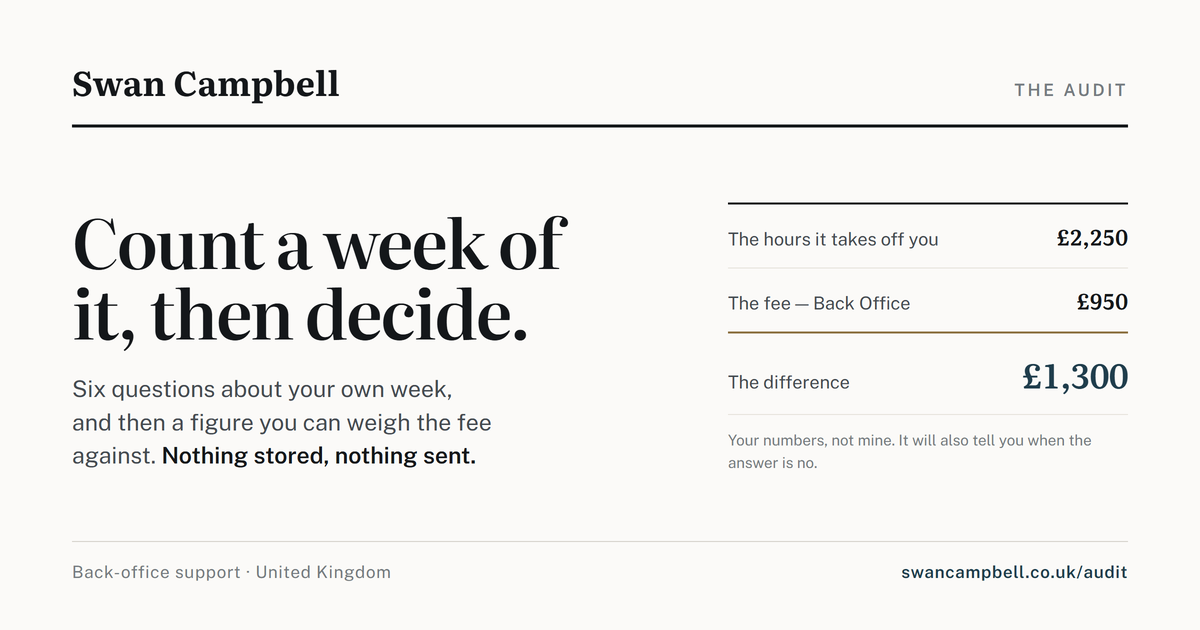
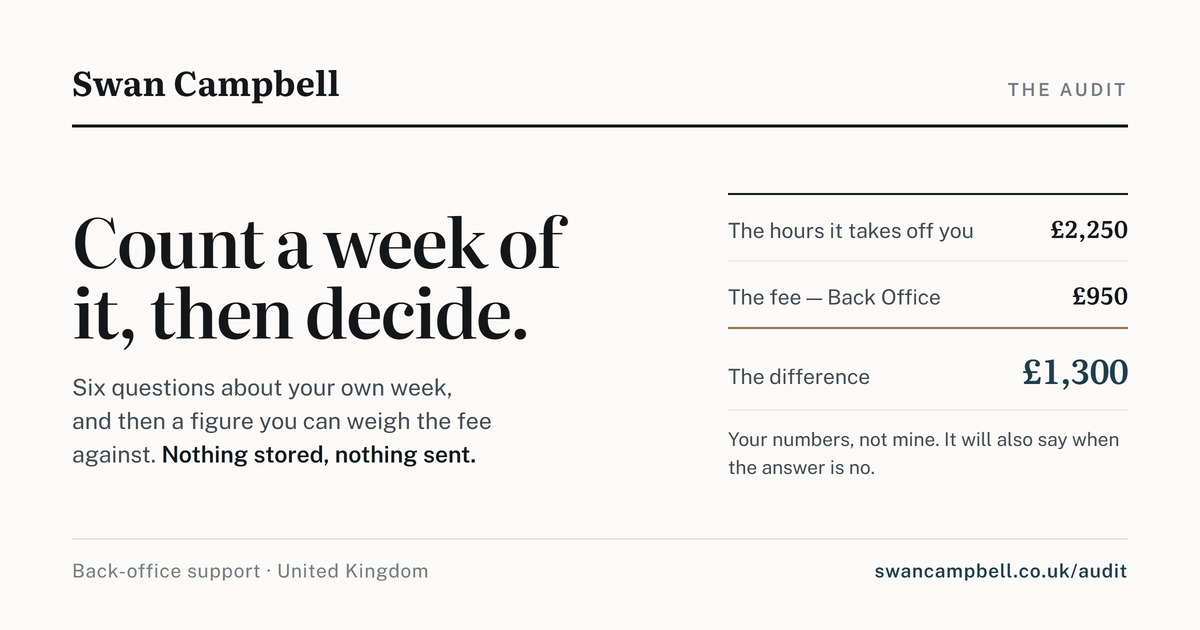
Size the cards for the feed they are actually read in
Checked both previews at the widths that matter and the fine print did
not survive. A 1200px card in a mobile feed renders about 360px wide, so
15px on the card is around 5px on the phone - present, sharp, and not
readable. Desktop at 504px was fine, which is why it was easy to miss.

Everything small went up: the ledger keys to 21px, the glosses to 20px,
both footers to 19px, and the audit's caption from 15px to 19px in ink-2
rather than muted. That caption - your numbers, not mine, and it will
also say when the answer is no - is the best line on either card and it
was set smaller than everything else on it.

The front page's glosses were cut to their distinctive half to pay for
the larger type: "sorted, replies drafted" becomes "replies drafted",
"captured, oddities flagged" becomes "oddities flagged". The first word
of each was the generic one. Shortening them to fit turned out to sharpen
them, which is not usually how that goes.

Still unreadable in clients that crop to a square thumbnail, which is
every 1.91:1 card and not worth designing around - those show the title
beside the image and it carries the meaning.

diff --git a/og-home-card.html b/og-home-card.html
@@ -41,7 +41,7 @@
   }
   .mark { font-family: var(--f-head); font-weight: 700; font-size: 34px; letter-spacing: 0.01em; }
   .where {
-    font-size: 17px; font-weight: 600; color: var(--muted);
+    font-size: 18px; font-weight: 600; color: var(--muted);
     letter-spacing: 0.16em; text-transform: uppercase;
   }
 
@@ -67,15 +67,17 @@
     display: flex; align-items: baseline; justify-content: space-between;
     gap: 24px; padding: 13px 0; border-bottom: 1px solid var(--line-soft);
   }
-  .does .k { font-family: var(--f-head); font-weight: 600; font-size: 21px; }
-  .does .v { font-size: 16px; color: var(--muted); text-align: right; }
+  .does .k { font-family: var(--f-head); font-weight: 600; font-size: 22px; }
+  /* 20px is the floor at which this still reads in a 360px mobile feed.
+     The glosses were cut to their distinctive half to pay for it. */
+  .does .v { font-size: 20px; color: var(--muted); text-align: right; }
 
   .fee {
     display: flex; align-items: baseline; justify-content: space-between;
     gap: 24px; margin-top: 18px; padding-top: 15px;
     border-top: 2px solid var(--brass);
   }
-  .fee .k { font-size: 18px; color: var(--ink-2); }
+  .fee .k { font-size: 20px; color: var(--ink-2); }
   .fee .v {
     font-family: var(--f-head); font-weight: 600; font-size: 34px;
     color: var(--accent); letter-spacing: -0.02em;
@@ -85,7 +87,7 @@
   footer {
     display: flex; align-items: baseline; justify-content: space-between;
     gap: 40px; padding-top: 20px; border-top: 1px solid var(--line);
-    font-size: 17px; color: var(--muted); letter-spacing: 0.04em;
+    font-size: 19px; color: var(--muted); letter-spacing: 0.04em;
   }
   footer .claim { color: var(--ink); font-weight: 600; letter-spacing: 0; }
   footer .url { color: var(--accent); font-weight: 600; white-space: nowrap; }
@@ -106,9 +108,9 @@
 
     <div>
       <div class="does">
-        <div class="row"><span class="k">Your inbox</span><span class="v">sorted, replies drafted</span></div>
-        <div class="row"><span class="k">Your meetings</span><span class="v">written up, actions owned</span></div>
-        <div class="row"><span class="k">Your receipts</span><span class="v">captured, oddities flagged</span></div>
+        <div class="row"><span class="k">Your inbox</span><span class="v">replies drafted</span></div>
+        <div class="row"><span class="k">Your meetings</span><span class="v">actions owned</span></div>
+        <div class="row"><span class="k">Your receipts</span><span class="v">oddities flagged</span></div>
         <div class="row"><span class="k">Your prep</span><span class="v">one page, sourced</span></div>
       </div>
       <div class="fee">

diff --git a/og-audit-card.html b/og-audit-card.html
@@ -39,7 +39,7 @@
   }
   .mark { font-family: var(--f-head); font-weight: 700; font-size: 34px; letter-spacing: 0.01em; }
   .where {
-    font-size: 17px; font-weight: 600; color: var(--muted);
+    font-size: 18px; font-weight: 600; color: var(--muted);
     letter-spacing: 0.16em; text-transform: uppercase;
   }
 
@@ -66,18 +66,20 @@
     gap: 28px; padding: 15px 0; border-bottom: 1px solid var(--line-soft);
   }
   .sum .row.rule { border-bottom-color: var(--brass); border-bottom-width: 2px; }
-  .sum .k { font-size: 18px; color: var(--ink-2); }
+  .sum .k { font-size: 21px; color: var(--ink-2); }
   .sum .v {
-    font-family: var(--f-head); font-weight: 600; font-size: 22px;
+    font-family: var(--f-head); font-weight: 600; font-size: 24px;
     font-variant-numeric: lining-nums tabular-nums; white-space: nowrap;
   }
   .sum .row.total .v { font-size: 34px; color: var(--accent); letter-spacing: -0.02em; }
-  .sum .cap { margin-top: 14px; font-size: 15px; color: var(--muted); line-height: 1.5; }
+  /* The best line on the card, and it was the smallest. 19px is the
+     floor at which it survives a 360px mobile feed. */
+  .sum .cap { margin-top: 15px; font-size: 19px; color: var(--ink-2); line-height: 1.45; }
 
   footer {
     display: flex; align-items: baseline; justify-content: space-between;
     padding-top: 20px; border-top: 1px solid var(--line);
-    font-size: 17px; color: var(--muted); letter-spacing: 0.04em;
+    font-size: 19px; color: var(--muted); letter-spacing: 0.04em;
   }
   footer .url { color: var(--accent); font-weight: 600; }
 </style>
@@ -108,7 +110,7 @@
         <span class="k">The difference</span>
         <span class="v">£1,300</span>
       </div>
-      <p class="cap">Your numbers, not mine. It will also tell you when the answer is no.</p>
+      <p class="cap">Your numbers, not mine. It will also say when the answer is no.</p>
     </div>
   </main>
 
